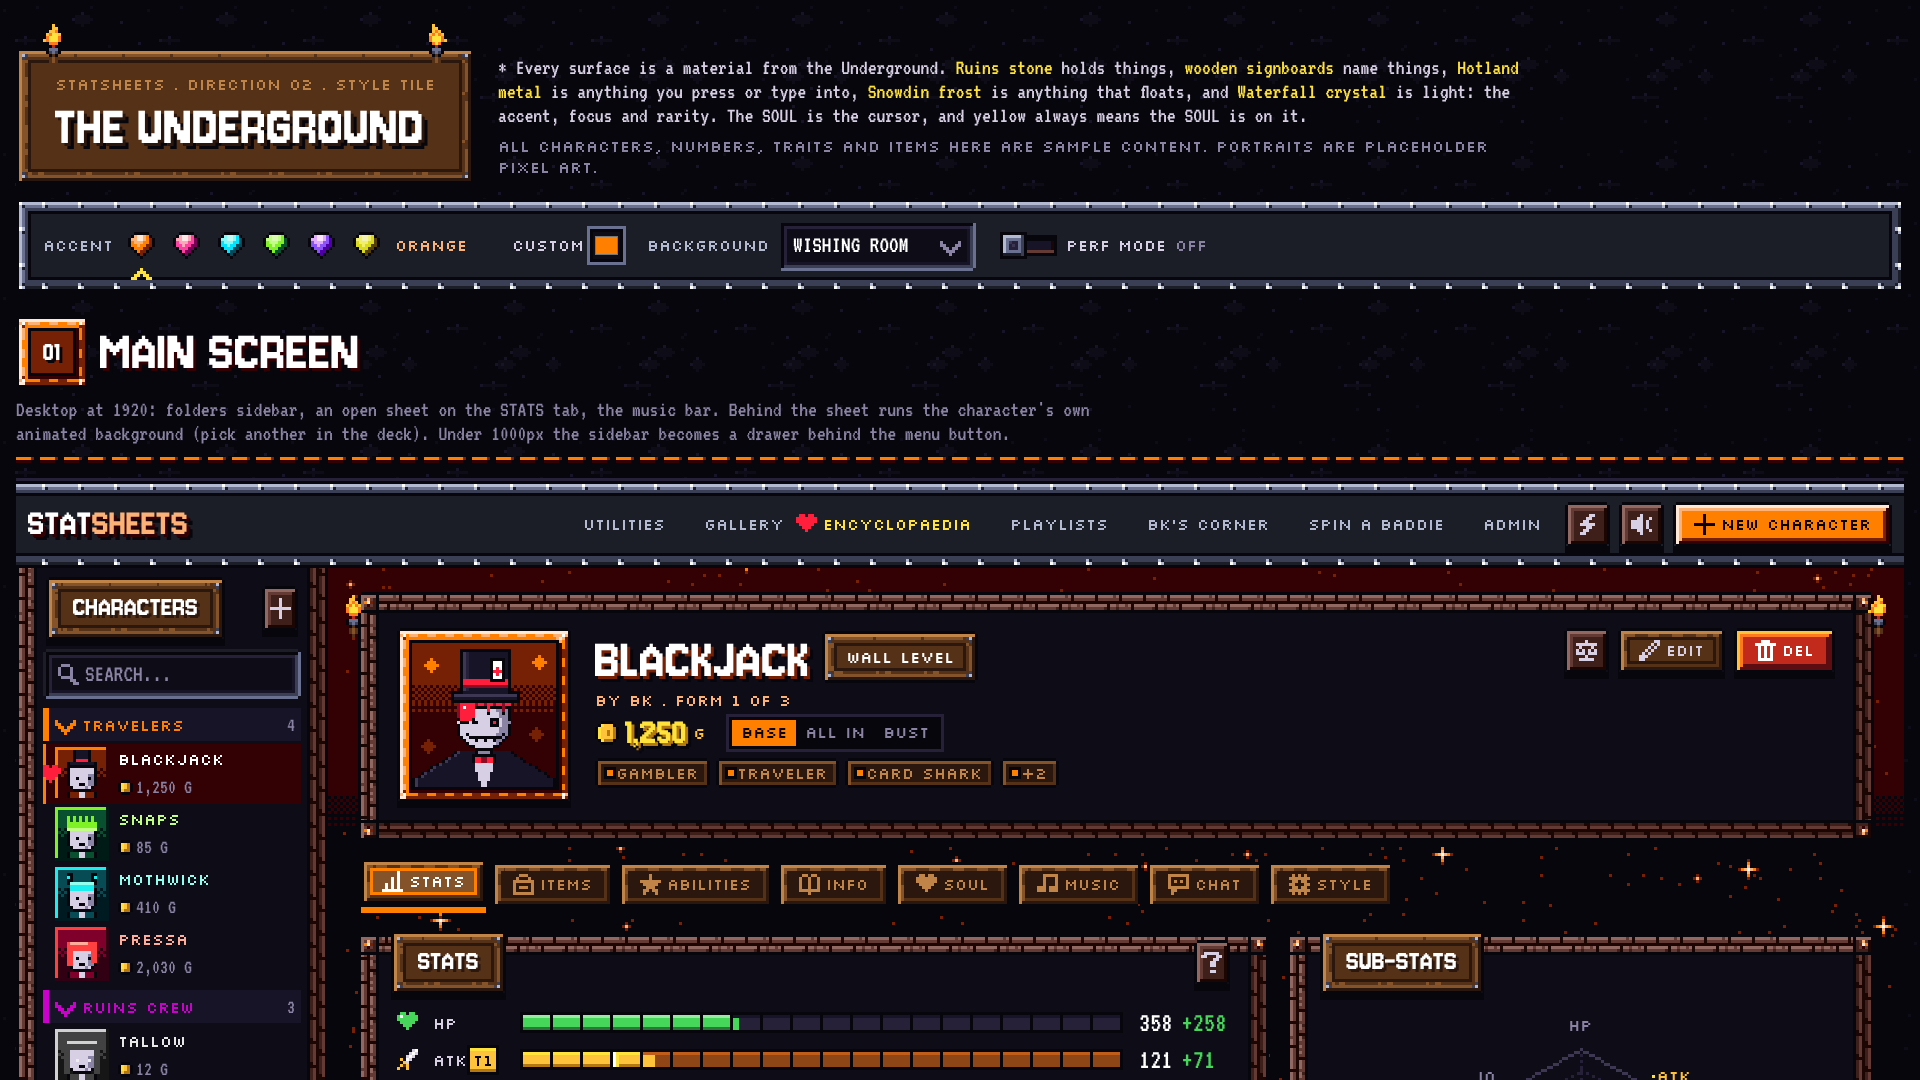
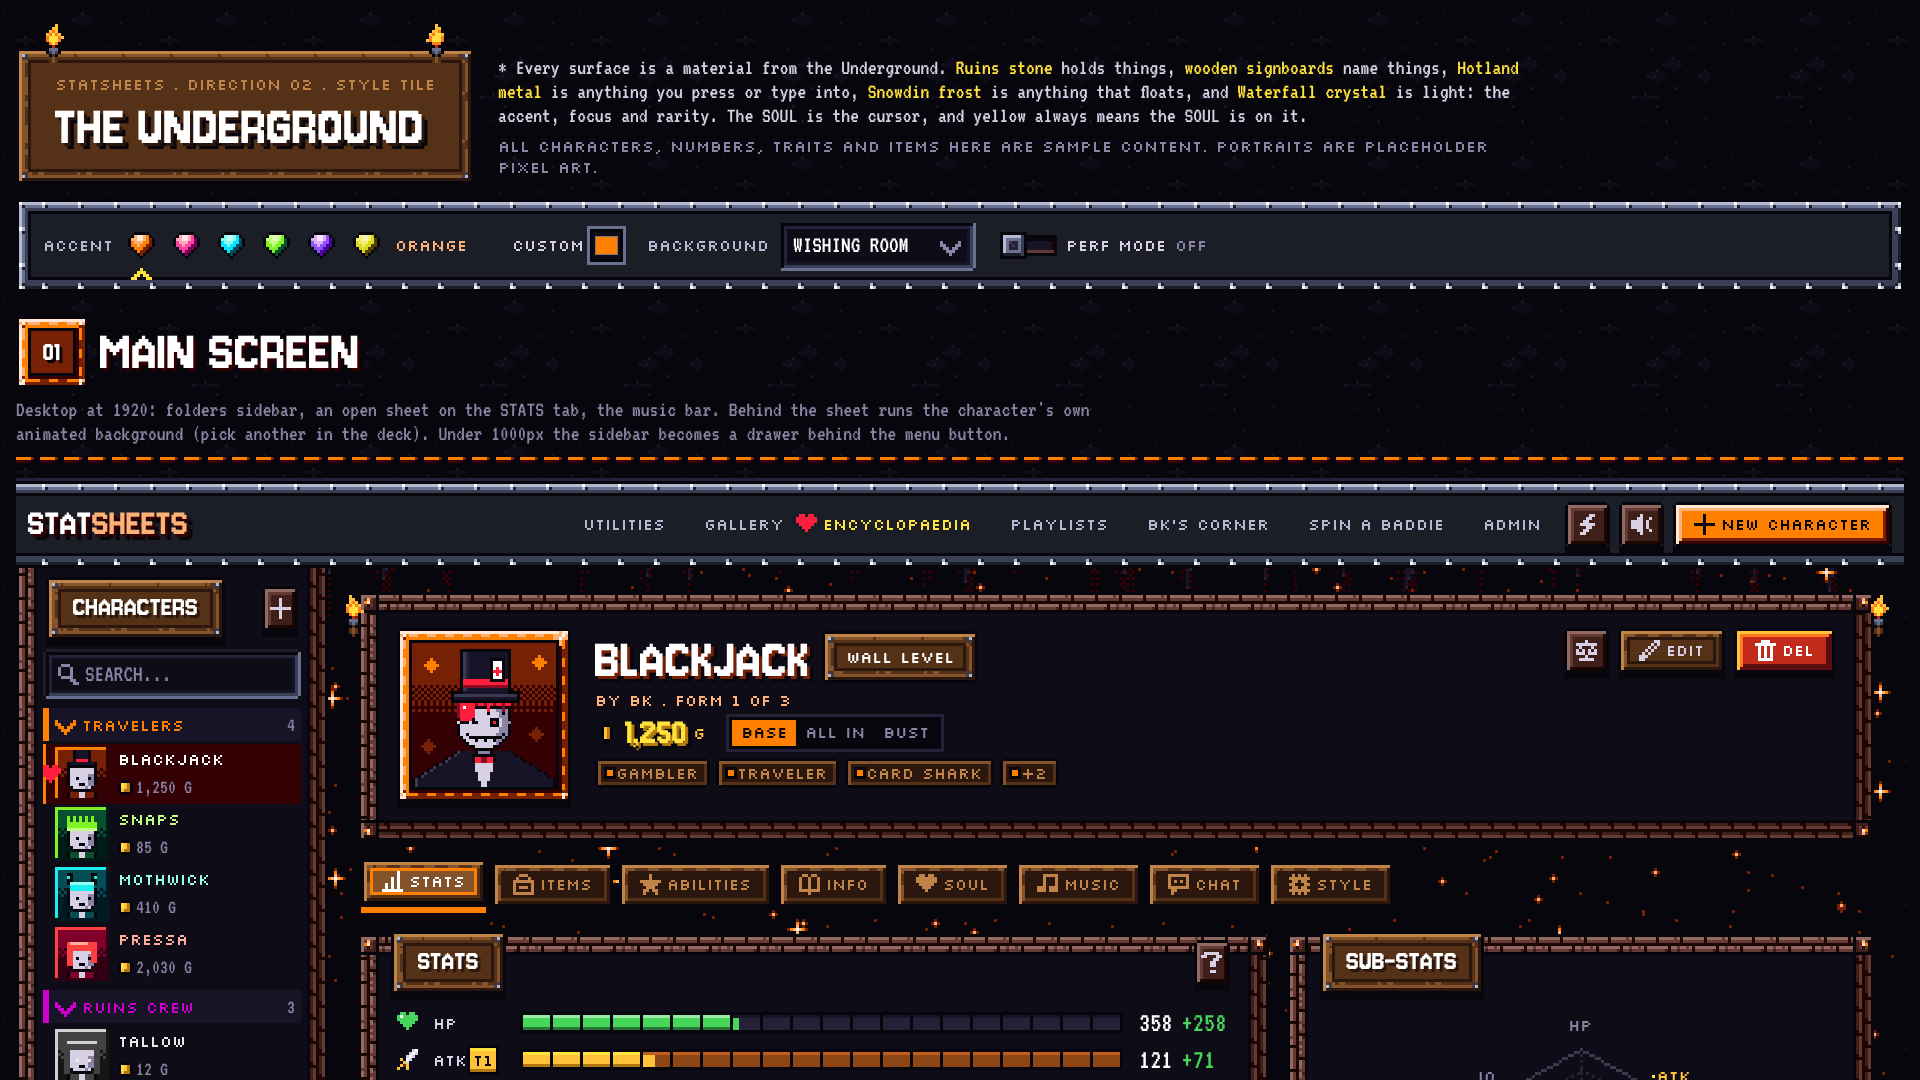
Rebuild: sound engine, build configurations, provisional global styles
SoundService ports playSound with the same volume and mute keys as the
old site (they share an origin, so a muted player stays muted), plus the
global click and hover sounds. A next build configuration targets the
/next/ preview: base href /StatSheets/next/, test data, and sounds and
images taken from the old site's folders one level up instead of copied.
Dev and live builds copy sounds/ and baddies/ in from the repo root.

Claude-Session: https://claude.ai/code/session_01SRCsXHz6xYWdzWCbQ2cd36

Changed region(s): [[0.1562, 0.5194, 1.0, 0.7639]]

diff --git a/rebuild/design/underground/index.html b/rebuild/design/underground/index.html
@@ -440,8 +440,8 @@ input[type=range]:focus-visible{outline:var(--px) solid var(--focus);outline-off
 .tc.hexxed{--tcf:var(--f-tc-hexxed);--r1:var(--c-void);--r2:var(--c-hx);--r3:var(--c-vi2);--r4:var(--c-vi3);background-color:var(--c-void)}
 /* animated ring: a tiled texture masked to the middle band of the frame */
 .tc .ring{position:absolute;z-index:-1;inset:calc(-4*var(--px));pointer-events:none;padding:calc(2*var(--px));
-  -webkit-mask:linear-gradient(#000 0 0) content-box,linear-gradient(#000 0 0);-webkit-mask-composite:xor;
-  mask:linear-gradient(#000 0 0) content-box exclude,linear-gradient(#000 0 0)}
+  -webkit-mask:linear-gradient(var(--c-void) 0 0) content-box,linear-gradient(var(--c-void) 0 0);-webkit-mask-composite:xor;
+  mask:linear-gradient(var(--c-void) 0 0) content-box exclude,linear-gradient(var(--c-void) 0 0)}
 .tc.rare .ring{z-index:1;background:var(--t-water) 0 0/calc(16*var(--px)) calc(8*var(--px));animation:flow 1.6s steps(16,end) infinite}
 @keyframes flow{to{background-position:calc(16*var(--px)) 0}}
 .tc.hexxed .ring{z-index:1;background:var(--t-glitch) 0 0/calc(16*var(--px)) calc(16*var(--px));animation:glitch .5s steps(1,end) infinite}
@@ -518,8 +518,8 @@ input[type=range]:focus-visible{outline:var(--px) solid var(--focus);outline-off
 .tx .amt{grid-row:1/3;grid-column:3;text-align:right;font:var(--fs-num)/1 var(--f-body);white-space:nowrap}
 .tx .amt small{display:block;font:var(--fs-ui)/1.3 var(--f-ui);color:var(--c-mute)}
 
-.roll-stage{display:flex;justify-content:center;gap:var(--p5);padding:var(--p6) 0 var(--p2);min-height:calc(78*var(--px));align-items:flex-start}
-.rc{position:relative;width:calc(44*var(--px));height:calc(64*var(--px));display:flex;justify-content:center}
+.roll-stage{display:flex;justify-content:center;gap:var(--p4);padding:var(--p6) 0 var(--p2);min-height:calc(78*var(--px));align-items:flex-start}
+.rc{--rcw:40;position:relative;width:calc(var(--rcw)*var(--px));height:calc(64*var(--px));display:flex;justify-content:center}
 .rc .face{position:relative;height:100%;overflow:hidden;display:grid;place-items:center;align-content:center;gap:var(--p2);text-align:center;padding:0 var(--p1)}
 .rc .face.back{background-color:var(--ac0);background-image:var(--t-cardback);background-size:calc(8*var(--px)) calc(8*var(--px));background-clip:padding-box}
 .rc .face .rar{font:var(--fs-ui)/1 var(--f-ui)}
@@ -659,6 +659,9 @@ footer.end{margin-top:var(--p12);display:flex;justify-content:space-between;gap:
 }
 @media (max-width:720px){
   .deck{position:relative;gap:var(--p3) var(--p6)}
+  #screen .sec-d{display:none}
+  .mast-pitch{font-size:20px}
+  .deck{margin-bottom:var(--p4)}
   .mast{padding-top:var(--p10)}
   .mast-sign{padding:var(--p3) var(--p4) var(--p4)}
   .main{padding:var(--p6) var(--p4) var(--p8)}
@@ -682,7 +685,9 @@ footer.end{margin-top:var(--p12);display:flex;justify-content:space-between;gap:
   .voice{grid-template-columns:minmax(0,1fr);padding:var(--p4)}
   .voice .say{font-size:26px}
   .opt{font-size:26px}
-  .roll-stage{gap:var(--p3)}
+  .roll-stage{gap:var(--p2)}
+  .rc{--rcw:50}
+  .rc .face .nm{font-size:20px}
   .tip{min-width:0}
   .btn-grid{grid-template-columns:repeat(2,max-content);gap:var(--p2) var(--p4)}
   .btn-grid>span:first-child{display:none}
@@ -2577,7 +2582,7 @@ function setPerf(on) {
 const ROLL = ['epic', 'common', 'mythic'], RNAME = { epic: 'CARD COUNTER', common: 'STICKY', mythic: 'HOUSE ALWAYS WINS', legendary: 'LOADED DICE', rare: 'RIPTIDE', hexxed: 'NOBODY CAME' };
 let rollTimers = [];
 function buildRoll() {
-  $('#roll-stage').innerHTML = [0, 1, 2].map(i => `<div class="rc"><div class="face back fr" style="width:${pxc(44)};border-width:${pxc(6)};border-image-source:var(--f-cardback);border-image-slice:6"><i class="spr s-soul"></i></div></div>`).join('');
+  $('#roll-stage').innerHTML = [0, 1, 2].map(i => `<div class="rc"><div class="face back fr" style="width:calc(var(--rcw) * var(--px));border-width:${pxc(6)};border-image-source:var(--f-cardback);border-image-slice:6"><i class="spr s-soul"></i></div></div>`).join('');
 }
 function setFace(face, r) {
   if (!r) { face.className = 'face back fr'; face.style.borderImageSource = 'var(--f-cardback)'; face.innerHTML = '<i class="spr s-soul"></i>'; return; }
@@ -2586,13 +2591,14 @@ function setFace(face, r) {
   face.style.minHeight = '0'; face.style.boxShadow = 'none'; face.style.padding = '0 var(--px)';
 }
 function flip(face, r, done) {
-  const W = [44, 30, 16, 12, 16, 30, 44]; let i = 0;
-  const tick = () => { face.style.width = pxc(W[i]); if (i === 3) setFace(face, r); i++; if (i < W.length) rollTimers.push(setTimeout(tick, 1000 / 12)); else if (done) done(); };
+  const full = parseInt(getComputedStyle(face.parentElement).getPropertyValue('--rcw'), 10) || 44;
+  const W = [full, Math.round(full * .66), Math.round(full * .33), 12, Math.round(full * .33), Math.round(full * .66), full]; let i = 0;
+  const tick = () => { face.style.width = i === W.length - 1 ? 'calc(var(--rcw) * var(--px))' : pxc(W[i]); if (i === 3) setFace(face, r); i++; if (i < W.length) rollTimers.push(setTimeout(tick, 1000 / 12)); else if (done) done(); };
   tick();
 }
 function rollOnce() {
   rollTimers.forEach(clearTimeout); rollTimers = [];
-  const faces = $$('#roll-stage .face'); faces.forEach(f => { setFace(f, null); f.style.width = pxc(44); });
+  const faces = $$('#roll-stage .face'); faces.forEach(f => { setFace(f, null); f.style.width = 'calc(var(--rcw) * var(--px))'; });
   if (PERF) { faces.forEach((f, i) => setFace(f, ROLL[i])); return; }
   faces.forEach((f, i) => rollTimers.push(setTimeout(() => flip(f, ROLL[i]), 500 + i * 650)));
 }

diff --git a/web/src/app/core/sound.service.ts b/web/src/app/core/sound.service.ts
@@ -1,0 +1,101 @@
+import { DOCUMENT, Injectable, inject, signal } from '@angular/core';
+import { environment } from '../../environments/environment';
+
+/** Every sound file in sounds/, by name. */
+export type SoundName =
+  | 'cancel' | 'characterchange' | 'characterclick' | 'characterclick2' | 'click' | 'delete'
+  | 'dicealt' | 'diceroll' | 'equip' | 'gaster' | 'hexxed' | 'hover' | 'juko-0inf' | 'juko-1'
+  | 'juko' | 'legendary' | 'max' | 'minimum' | 'mythic' | 'pop' | 'rolldone' | 'save';
+
+export interface PlayOptions {
+  /** playback rate, clamped to 0.1..4 */
+  rate?: number;
+  /** 0..1, multiplied by the global volume */
+  volume?: number;
+}
+
+// Same keys as the old site, which shares this origin: a player who muted
+// the old site stays muted on the new one.
+const VOLUME_KEY = 'sfx_volume';
+const MUTED_KEY = 'sfx_muted';
+
+/** Elements that click when pressed (the old global capture listener). */
+const CLICK_SEL = 'button, [data-sfx-click], [data-tooltip]';
+/** Elements that make the hover blip. */
+const HOVER_SEL = 'button, [data-sfx-hover], [data-tooltip]';
+/** Containers whose own handlers play something else (character entries). */
+const SILENT_SEL = '[data-sfx-silent]';
+
+/**
+ * Sound effects: the old site's playSound, the global SFX volume and mute,
+ * and the click and hover sounds on every interactive element.
+ */
+@Injectable({ providedIn: 'root' })
+export class SoundService {
+  private readonly doc = inject(DOCUMENT);
+  readonly volume = signal(readNumber(VOLUME_KEY, 1));   // 0..1
+  readonly muted = signal(readString(MUTED_KEY) === '1');
+  private hoverCooldown = false;
+  private wired = false;
+
+  play(name: SoundName, { rate = 1, volume = 1 }: PlayOptions = {}): HTMLAudioElement | undefined {
+    if (this.muted()) return undefined;
+    try {
+      const audio = new Audio(`${environment.assetBase}sounds/${name}.mp3`);
+      audio.volume = Math.max(0, Math.min(1, volume * this.volume()));
+      audio.playbackRate = Math.max(0.1, Math.min(4, rate));
+      audio.play().catch(() => { /* autoplay blocked before the first interaction */ });
+      return audio;
+    } catch {
+      return undefined;
+    }
+  }
+
+  click(): void {
+    this.play('click', { rate: 0.9 + Math.random() * 0.3, volume: 0.4 });
+  }
+
+  hover(): void {
+    if (this.hoverCooldown) return;
+    this.hoverCooldown = true;
+    this.play('hover', { rate: 0.9 + Math.random() * 0.3, volume: 0.45 });
+    setTimeout(() => { this.hoverCooldown = false; }, 55);
+  }
+
+  /** 0..100 */
+  setVolume(percent: number): void {
+    const v = Math.max(0, Math.min(100, percent)) / 100;
+    this.volume.set(v);
+    write(VOLUME_KEY, String(v));
+  }
+
+  toggleMute(): void {
+    this.muted.update(m => !m);
+    write(MUTED_KEY, this.muted() ? '1' : '0');
+  }
+
+  /** Global click and hover sounds; call once at startup. */
+  wireGlobalSounds(): void {
+    if (this.wired) return;
+    this.wired = true;
+    this.doc.addEventListener('click', e => {
+      const t = (e.target as Element | null)?.closest?.(CLICK_SEL);
+      if (t && !t.closest(SILENT_SEL)) this.click();
+    }, true);
+    this.doc.addEventListener('mouseover', e => {
+      const t = (e.target as Element | null)?.closest?.(HOVER_SEL);
+      if (t) this.hover();
+    });
+  }
+}
+
+function readString(key: string): string | null {
+  try { return localStorage.getItem(key); } catch { return null; }
+}
+function readNumber(key: string, fallback: number): number {
+  const v = parseFloat(readString(key) ?? '');
+  return isNaN(v) ? fallback : v;
+}
+function write(key: string, value: string): void {
+  try { localStorage.setItem(key, value); } catch { /* storage blocked */ }
+}

diff --git a/web/src/styles.scss b/web/src/styles.scss
@@ -1,1 +1,78 @@
-/* You can add global styles to this file, and also import other style files */
+// Global tokens and base styles.
+//
+// Provisional: this is a plain version of the current look, so features can be
+// built before the pixel-art direction is chosen. The chosen design system
+// replaces these tokens and the shared building blocks in src/app/ui/; feature
+// components only use the tokens and the building blocks, never raw colours.
+
+:root {
+  color-scheme: dark;
+
+  // surfaces
+  --ss-bg: #000;
+  --ss-panel: #07070a;
+  --ss-panel-2: #101016;
+  --ss-line: #ffffff;
+  --ss-line-dim: #3a3a44;
+
+  // text
+  --ss-fg: #ffffff;
+  --ss-fg-dim: #9a9aa6;
+  --ss-fg-faint: #55555f;
+
+  // the character's accent colour, set at runtime on the character view
+  --ss-accent: #ffff00;
+  --ss-gold: #ffd700;
+  --ss-ok: #4cff7a;
+  --ss-err: #ff4444;
+
+  // stat colours (same hues as the old bars)
+  --ss-hp: #22cc55;
+  --ss-atk: #ff7a1a;
+  --ss-def: #2f6bff;
+  --ss-mag: #b326e6;
+  --ss-spd: #f2e600;
+  --ss-iq: #1fd3a8;
+
+  // rarity colours
+  --ss-common: #9a9aa6;
+  --ss-rare: #3aa0ff;
+  --ss-epic: #b04cff;
+  --ss-legendary: #ffd23a;
+  --ss-mythic: #ff3a6e;
+  --ss-hexxed: #9dff00;
+
+  // type and spacing
+  --ss-font: 'Press Start 2P', ui-monospace, 'Courier New', monospace;
+  --ss-text-xs: 7px;
+  --ss-text-sm: 8px;
+  --ss-text-md: 10px;
+  --ss-text-lg: 14px;
+  --ss-text-xl: 22px;
+  --ss-gap: 8px;
+  --ss-border: 2px;
+}
+
+* { box-sizing: border-box; }
+
+html, body {
+  height: 100%;
+  margin: 0;
+  background: var(--ss-bg);
+  color: var(--ss-fg);
+  font-family: var(--ss-font);
+  font-size: var(--ss-text-md);
+  line-height: 1.6;
+}
+
+button, input, select, textarea { font: inherit; color: inherit; }
+
+button { cursor: pointer; }
+
+:focus-visible { outline: 2px solid var(--ss-accent); outline-offset: 2px; }
+
+img { max-width: 100%; }
+
+@media (prefers-reduced-motion: reduce) {
+  *, *::before, *::after { animation-duration: 0.01ms !important; animation-iteration-count: 1 !important; transition-duration: 0.01ms !important; }
+}

diff --git a/web/src/environments/environment.ts b/web/src/environments/environment.ts
@@ -1,4 +1,4 @@
-// Default build settings: the SAFE ones.
+// Default build settings: the SAFE ones, used by `ng serve`, tests and dev builds.
 //
 // Every top-level Firestore collection name gets `collectionPrefix` in front
 // of it. 'next_' points at the test copy of the database the /next/ preview
@@ -9,4 +9,10 @@ export const environment = {
   collectionPrefix: 'next_',
   /** Shown in the corner of every page while the app runs on the test copy. */
   sandboxLabel: 'PREVIEW: TEST DATA',
+  /**
+   * Where sounds/ and baddies/ are served from, relative to the app. Dev and
+   * live builds copy them into the build; the /next/ preview reuses the copies
+   * the old site already serves one folder up.
+   */
+  assetBase: '',
 };

diff --git a/web/src/index.html b/web/src/index.html
@@ -2,10 +2,14 @@
 <html lang="en">
   <head>
     <meta charset="utf-8" />
-    <title>Statsheets</title>
+    <title>STATSHEETS</title>
     <base href="/" />
-    <meta name="viewport" content="width=device-width, initial-scale=1" />
+    <meta name="viewport" content="width=device-width, initial-scale=1, viewport-fit=cover" />
+    <meta name="theme-color" content="#000000" />
     <link rel="icon" type="image/x-icon" href="favicon.ico" />
+    <link rel="preconnect" href="https://fonts.googleapis.com" />
+    <link rel="preconnect" href="https://fonts.gstatic.com" crossorigin />
+    <link href="https://fonts.googleapis.com/css2?family=Press+Start+2P&display=swap" rel="stylesheet" />
   </head>
   <body>
     <ss-root></ss-root>

diff --git a/web/src/environments/environment.next.ts b/web/src/environments/environment.next.ts
@@ -1,0 +1,8 @@
+// The /next/ preview on GitHub Pages (https://ricmoncar.github.io/StatSheets/next/).
+// Test copy of the database; sounds and images come from the old site's
+// folders one level up, so the preview does not duplicate them.
+export const environment = {
+  collectionPrefix: 'next_',
+  sandboxLabel: 'PREVIEW: TEST DATA',
+  assetBase: '../',
+};

diff --git a/rebuild/PLAN.md b/rebuild/PLAN.md
@@ -1,0 +1,58 @@
+# Rebuild plan and progress
+
+How each area is done: read the old code for it once, write down what it does
+(rules, limits, sounds, saved fields), port it, and check it against the old
+site running side by side. Pure logic is checked number for number against
+the old code on live data wherever possible (see `*.parity.spec.ts`).
+
+Status: `[x]` done and checked, `[~]` in progress, `[ ]` not started.
+
+## Foundations
+
+- [x] Angular 22 app in `web/`, sandbox (`next_`) database copy, tooling
+- [x] Data layer: live listener, field-level diff, three-way merge, `_rev` transaction (port of `saveData`)
+- [x] Effective stats (items, traits, derived sub-stats): matches the old site on 212 live form cases
+- [x] Trait rolls, odds, pity, fortune: identical hands to the old site on 400 seeded rolls
+- [x] Stat bars and prestige tiers, power levels, accent presets, gold transactions
+- [ ] Design system (waiting on the chosen direction in `rebuild/design/`)
+- [ ] App shell, routing, sound engine, settings (performance mode, FPS cap, volume)
+
+## Main app (index.html + script.js core)
+
+- [ ] Sidebar: search, folders (shared collapse state, order), drag and drop, right-click menu
+- [ ] Character view header: portrait, name, owner, level, gold, tags, forms
+- [ ] Stats tab: bars, sub-stats, breakdown tooltips, radar chart, power level modal
+- [ ] Traits: per-form ownership, trait widgets (situational triggers, duality, determination, perfect soul, cultivation stacks...), codex, roll overlay with auto-roll
+- [ ] Inventory: items, icon picker, image icons, mods, equip
+- [ ] Gold manager
+- [ ] Editor: every field, alt forms, tags, avatar upload and compression
+- [ ] Info tab: profile fields, media links, voice claims, theme song
+- [ ] Music: per-character theme player and mini-player bar
+- [ ] Abilities tab
+- [ ] SOUL builder
+- [ ] Character chat
+- [ ] Compare, tier list, leaderboard, height chart, status roller, suggestion box
+- [ ] Generic background patterns, redesigned in pixel art
+
+## Secondary pages
+
+- [ ] Utilities
+- [ ] Encyclopaedia
+- [ ] Gallery
+- [ ] Playlists
+- [ ] Spin a Baddie
+- [ ] BK's Corner
+- [ ] Admin
+- [ ] sq.html, test.html (find out if still used)
+
+## Phase 2
+
+- [ ] Custom character pages, and the features that live inside them
+  (Nara's shared paint canvas, Sel's shooting star counter, games, scoreboards)
+
+## Cutover
+
+- [ ] `/next/` preview on `main` (built with base href `/StatSheets/next/`)
+- [ ] Live build (`environment.live.ts`, real collections) and GitHub Pages
+      switched to build from GitHub Actions
+- [ ] Redirect stubs for old page URLs (`utilities.html` and so on)
